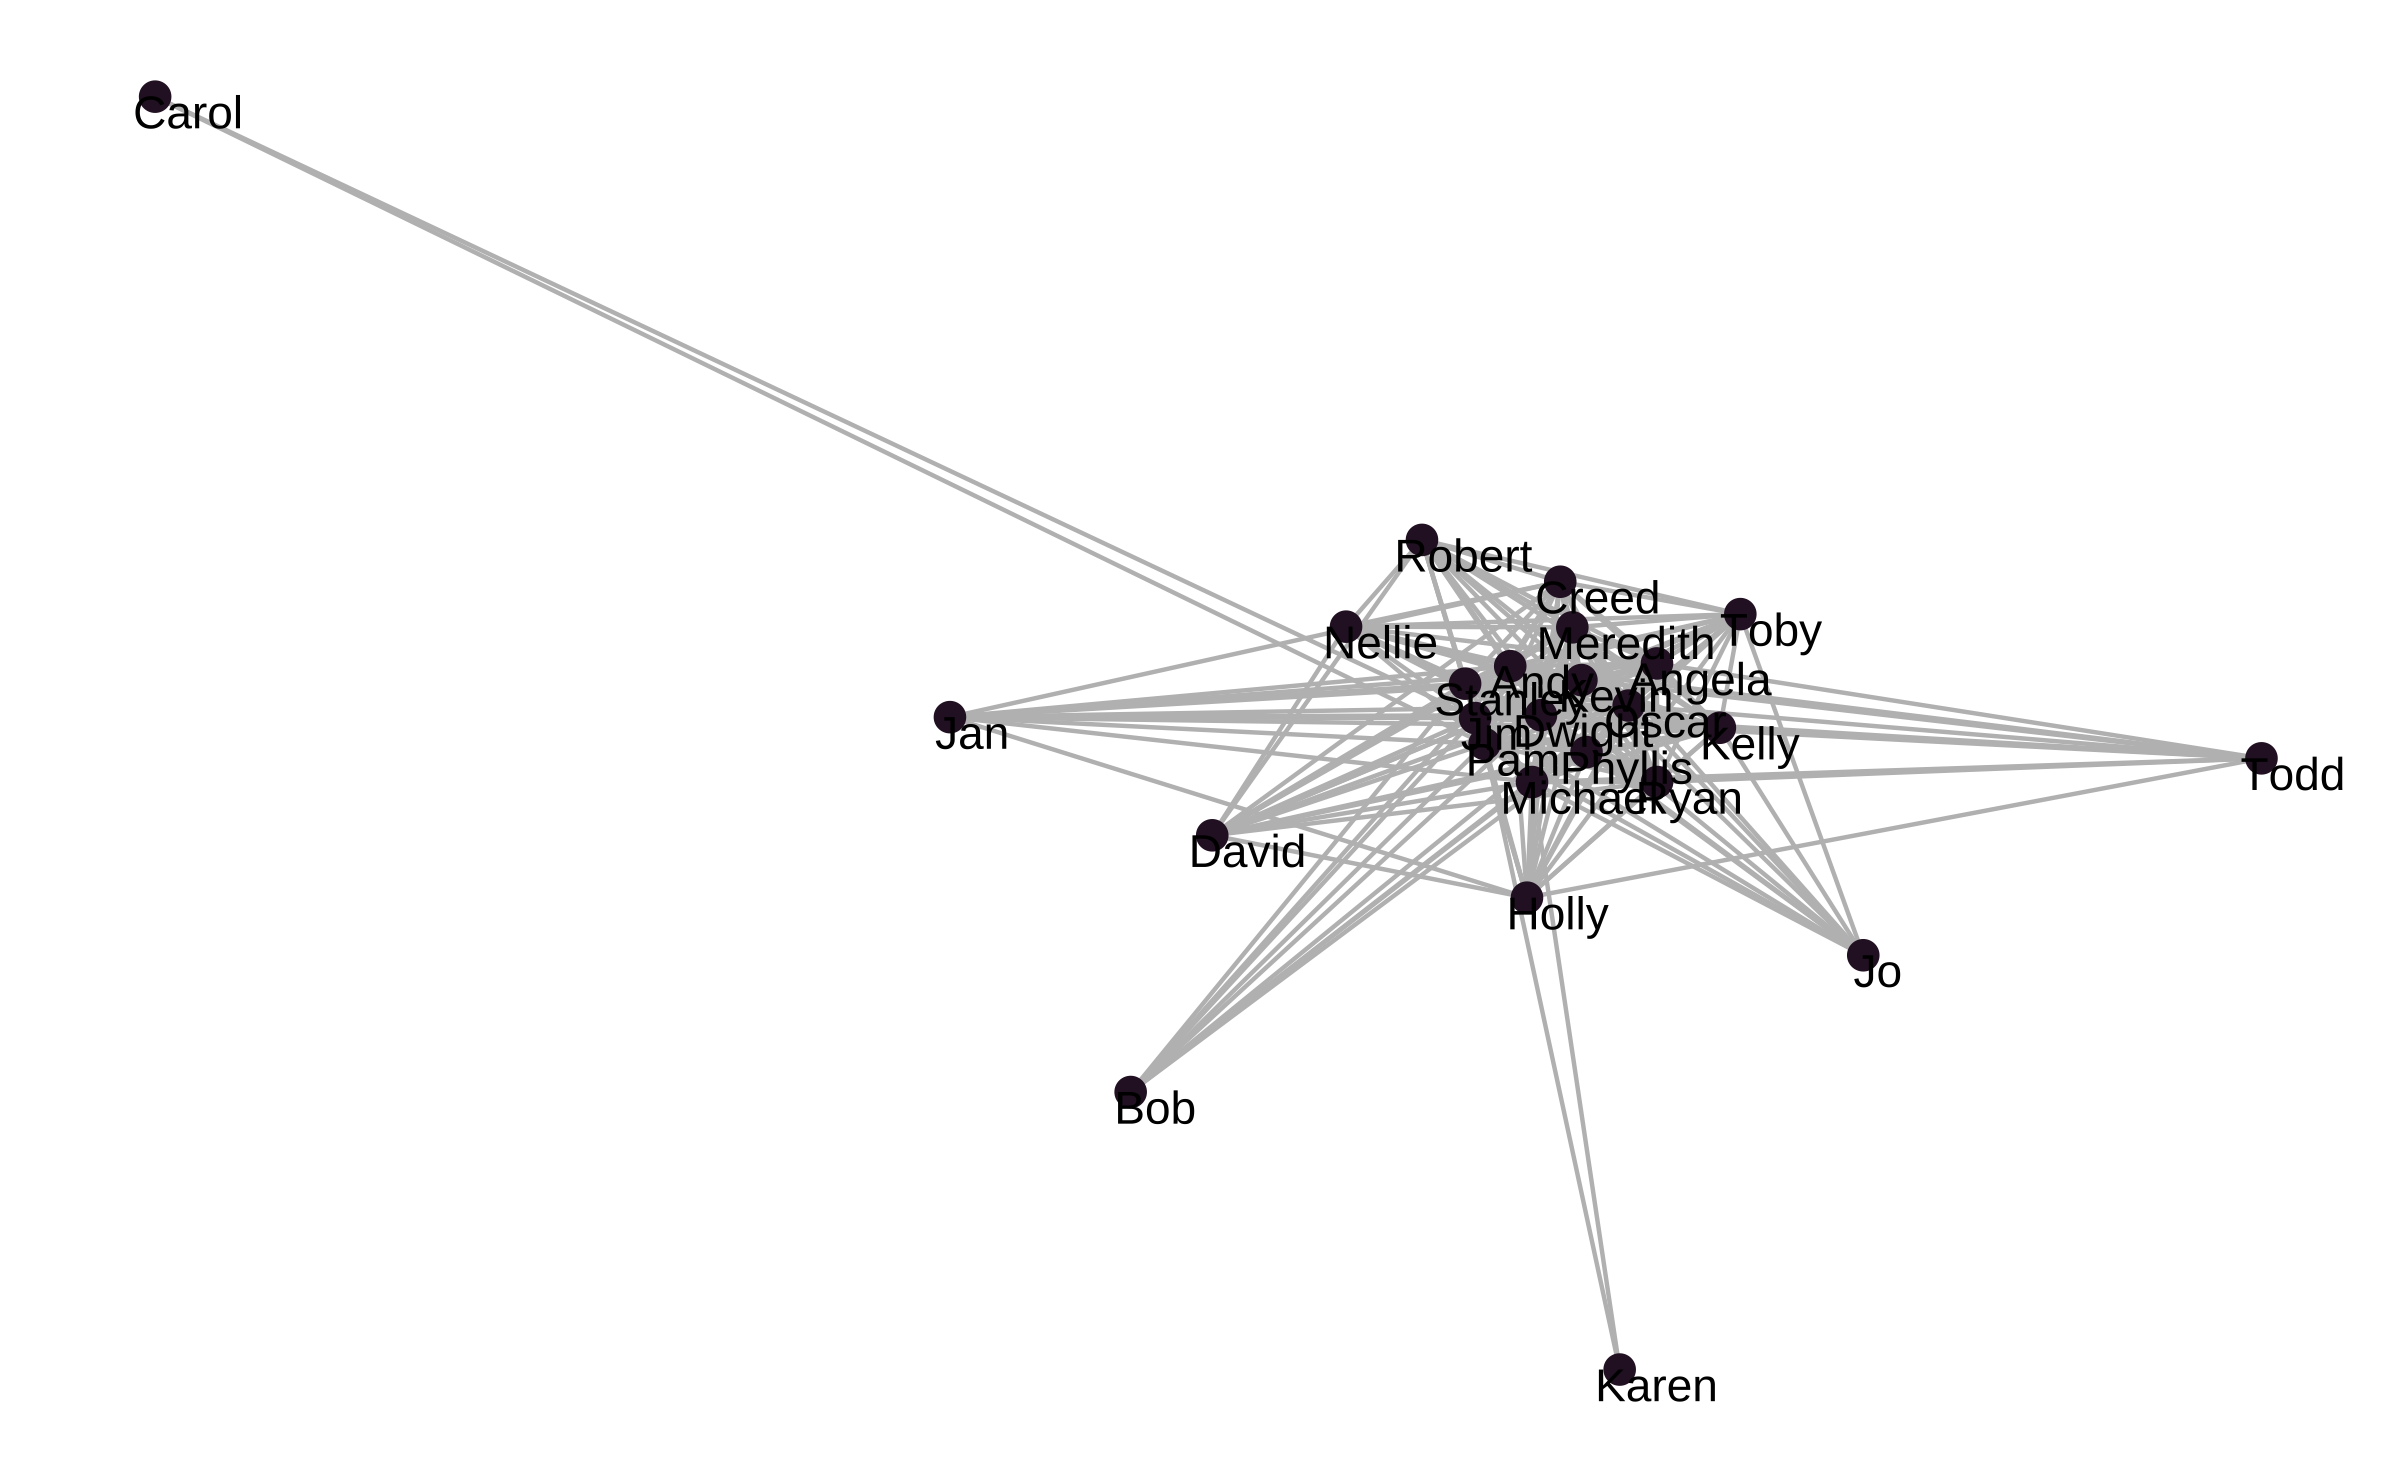
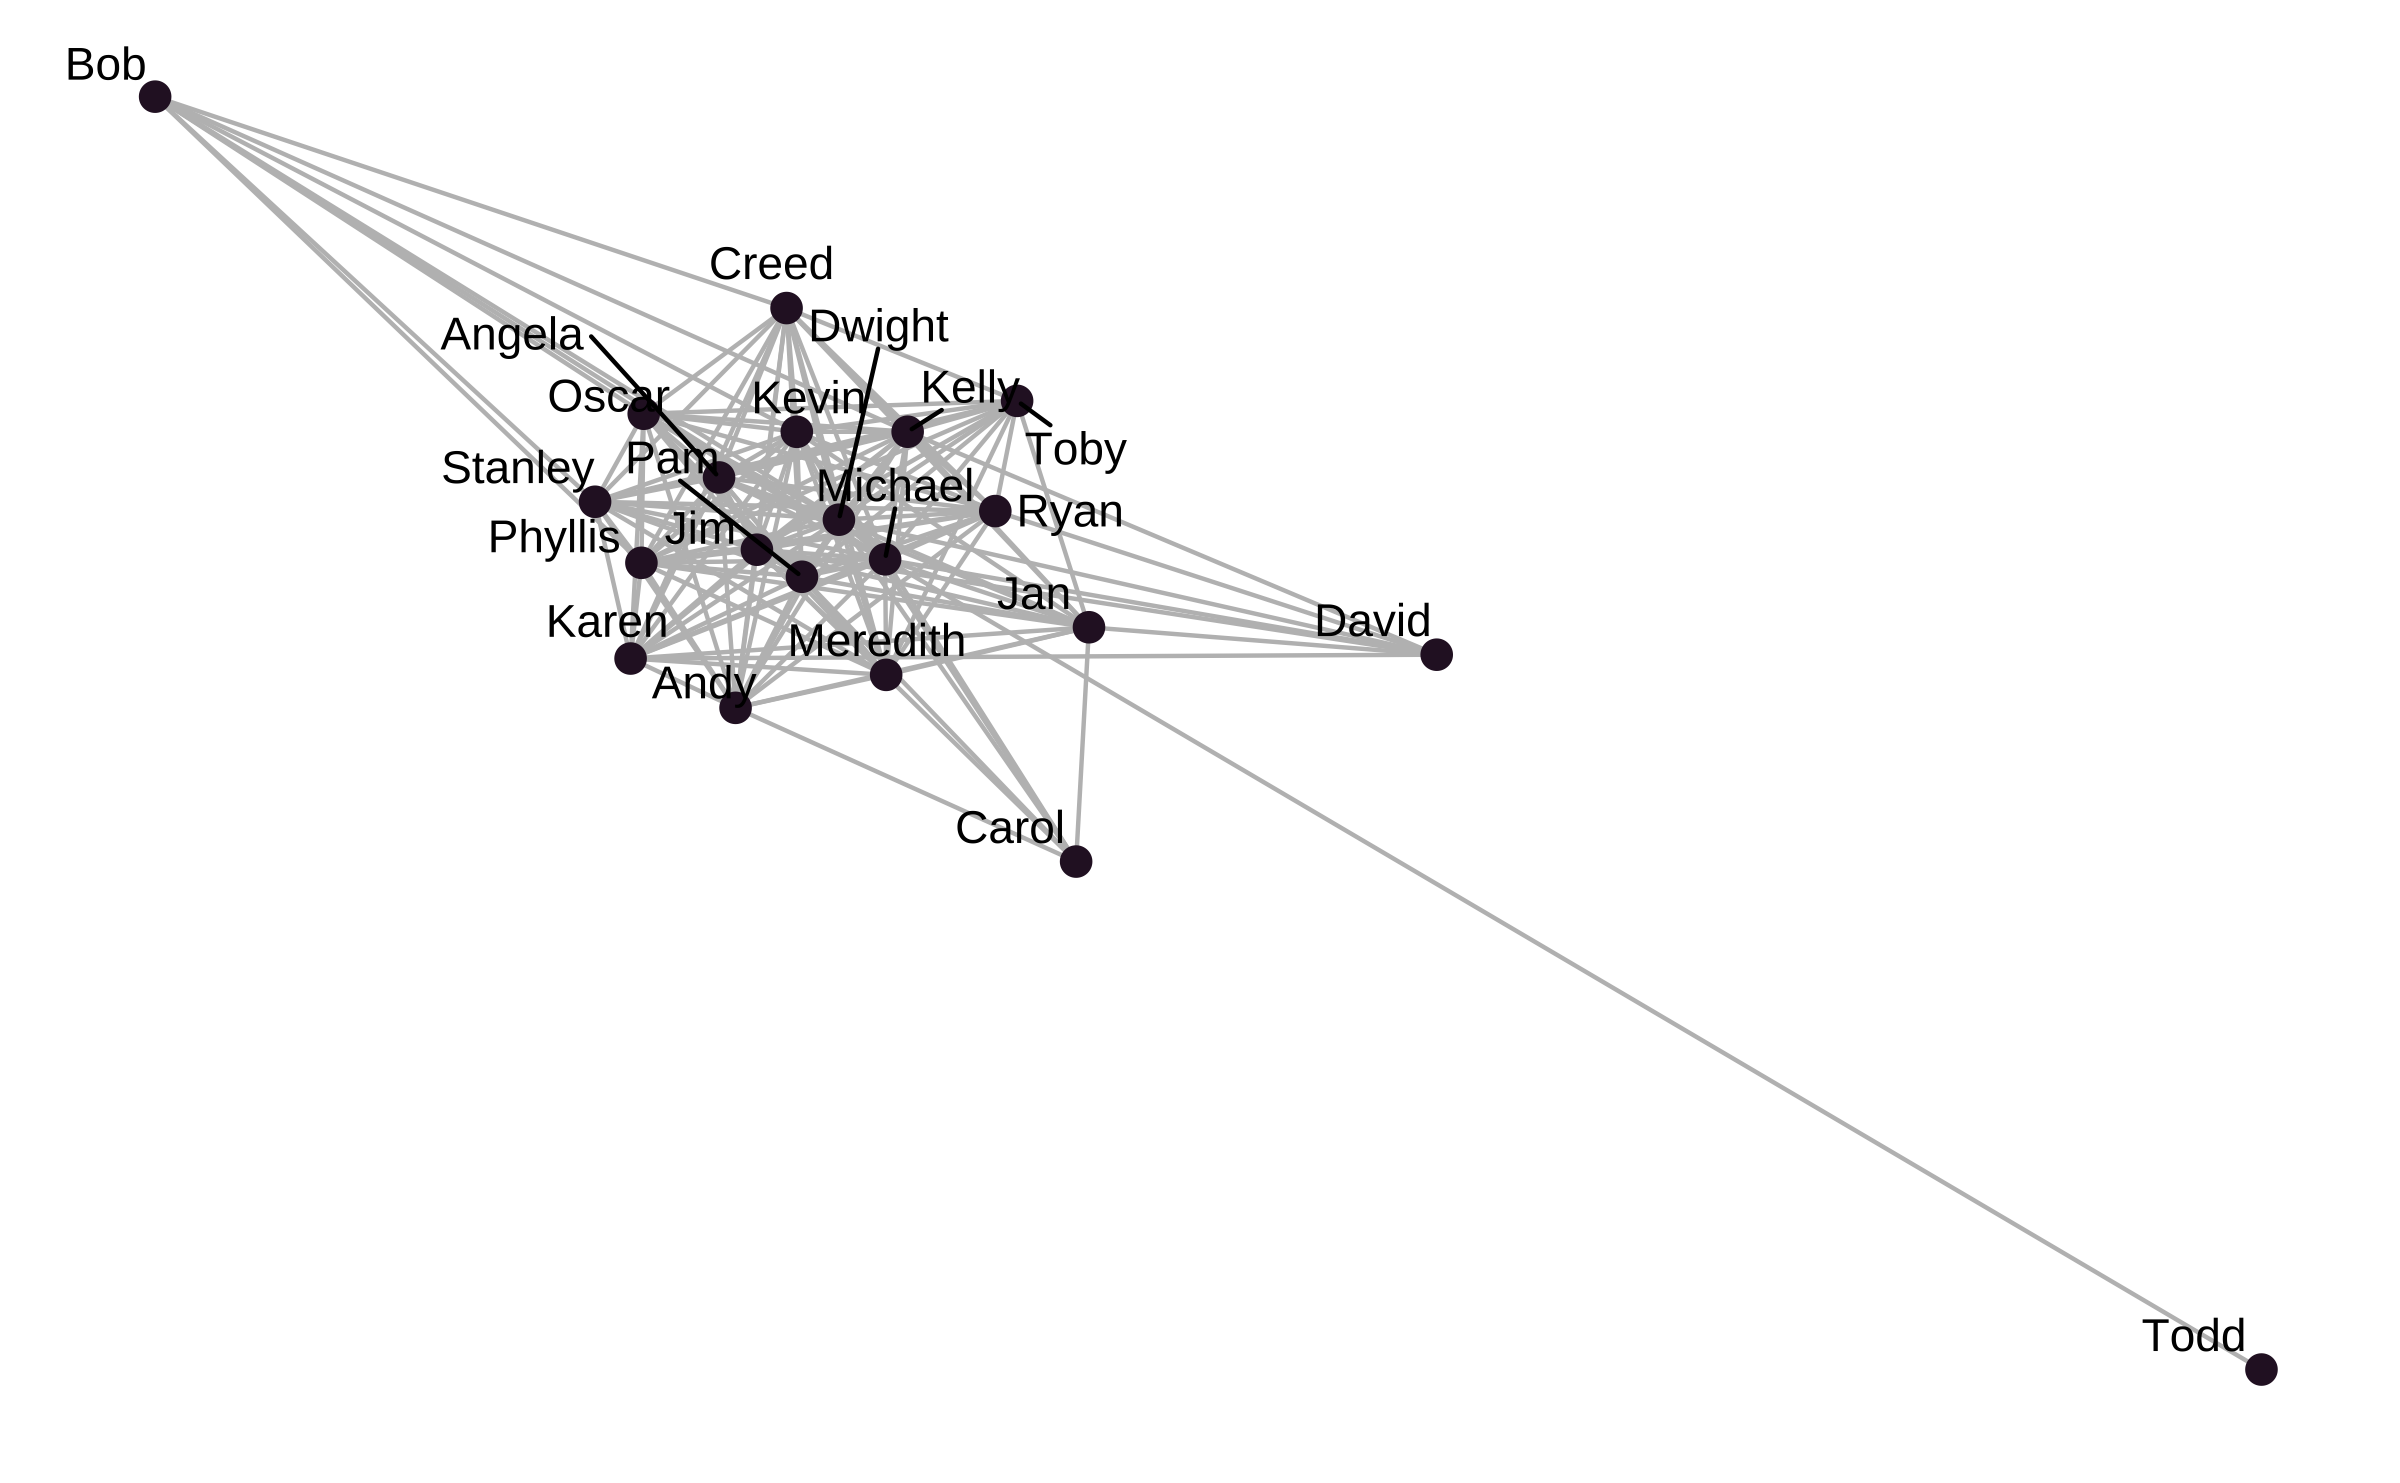
pretty up network slides

diff --git a/static/slides/13-visualize-text-network/index.html b/static/slides/13-visualize-text-network/index.html
@@ -2014,7 +2014,7 @@ set.seed(42)
 ggraph(cooccur_office, layout = "fr") +
   geom_edge_link(color = "gray") +
   geom_node_point(color = "#2B152C", size = 3) +
-  geom_node_text(aes(label = name), hjust = 0.2, vjust = 1)
+  geom_node_text(aes(label = name), hjust = 0.2, vjust = 1, repel = TRUE)
 ```
 
 
